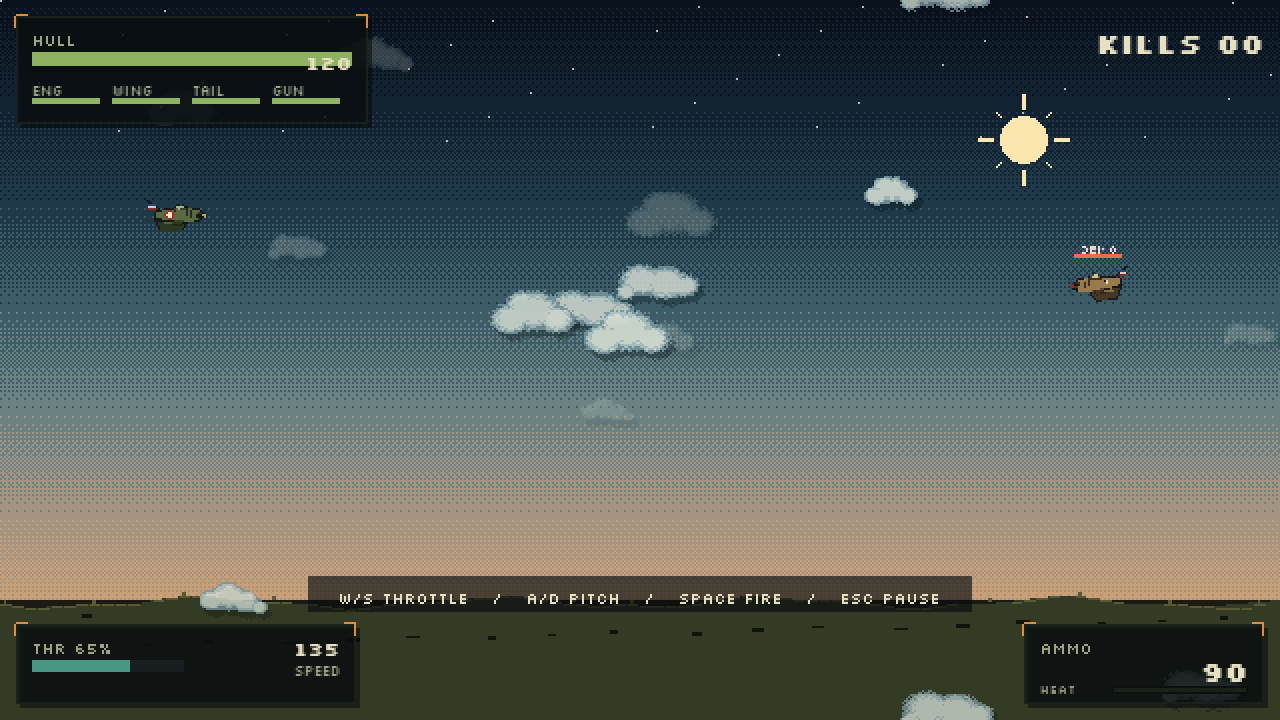
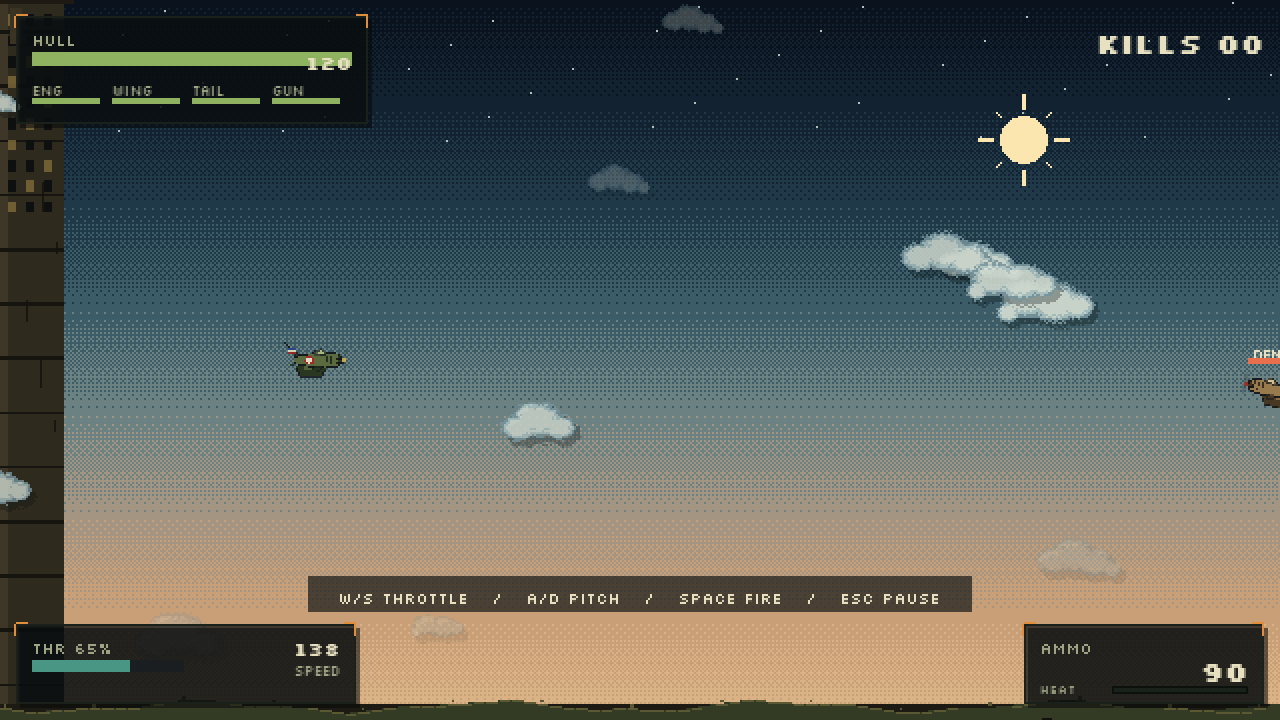
Add wide walled arena with camera follow and 3-player spawns

diff --git a/README.md b/README.md
@@ -24,6 +24,7 @@ procedurally. There are no large art packs and no runtime downloads.
 - **3-second respawns** for every pilot, solo and online.
 - **Gun heat** with an overheat jam timeout, so holding fire constantly is punished.
 - **Procedural combat audio** for guns, hits, explosions, crashes, stalls, pickups and respawns.
+- **Camera-scrolled walled arena**: 1000×520 world, old-town building walls, no wrap, smooth clamped camera and extra vertical space to flank.
 - **Low ground** at the bottom of the arena. Touch it and the aircraft explodes and respawns.
 - Aircraft are **5% smaller** than the original silhouette, with a matching smaller collision radius.
 - **Cloud cover** that actually hides aircraft. Cloud positions and per-plane visibility are server-authoritative.
@@ -146,10 +147,12 @@ configured for TCP 7777.
 - **Damage:** 120 hull, with separate engine, wing, tail and gun health.
 - **Clouds:** server-generated puffs; the server sends their positions and each
   plane's `hidden` flag in snapshots. The client never decides visibility alone.
-- **Ground:** a low strip at `y = 375`; contact is a crash, not a kill. The
+- **Ground:** a low strip at `y = 445`; contact is a crash, not a kill. The
   aircraft explodes and starts a respawn.
-- **Arena:** 800×450 world units rendered at 0.8× into a 640×360 pixel viewport.
-  Horizontal wrap, bounded vertical space, fixed 60 Hz simulation.
+- **Arena:** 1000×520 world units viewed through a smooth 800×450 camera at
+  0.8× into a 640×360 pixel viewport. Solid old-town building walls at the
+  sides; no horizontal wrap; fixed 60 Hz simulation.
+- **Three-player FFA:** a triangular three-spawn layout is used automatically.
 
 ## Development
 
@@ -174,7 +177,7 @@ run.bat --server --port=7777
 ### Tests
 
 ```bat
-test.bat        :: 38 unit tests (flight, hitboxes, clouds, rounds, protocol)
+test.bat        :: 40 unit tests (flight, hitboxes, clouds, rounds, protocol)
 smoke.bat       :: boot, solo flight, commands, console and screenshots
 ```
 

diff --git a/docs/DEBUGGING.md b/docs/DEBUGGING.md
@@ -253,7 +253,7 @@ uncaught error instead of hanging on the crash screen.
 test.bat
 ```
 
-38 tests cover:
+40 tests cover:
 
 - utility math/string wrapping;
 - class inheritance;
